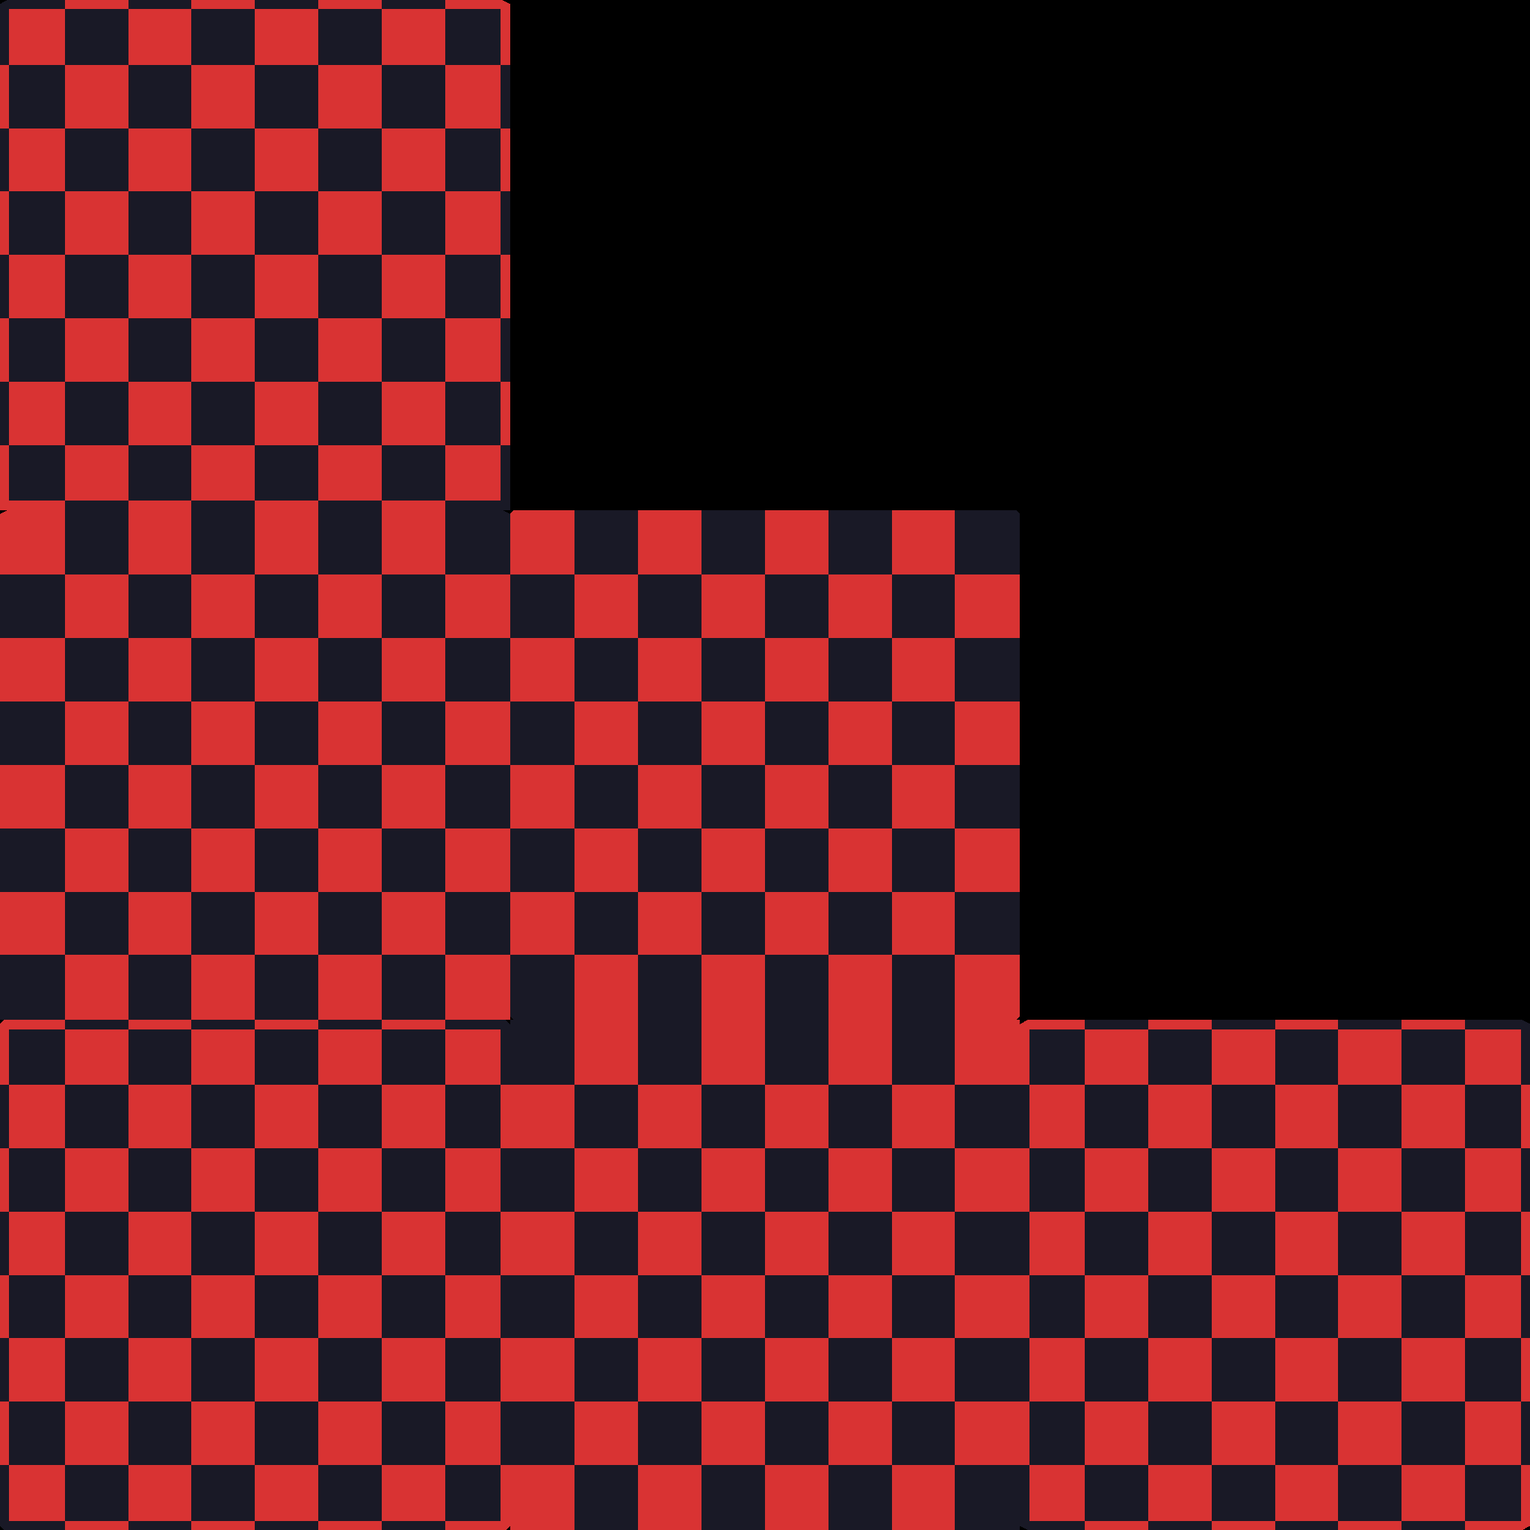
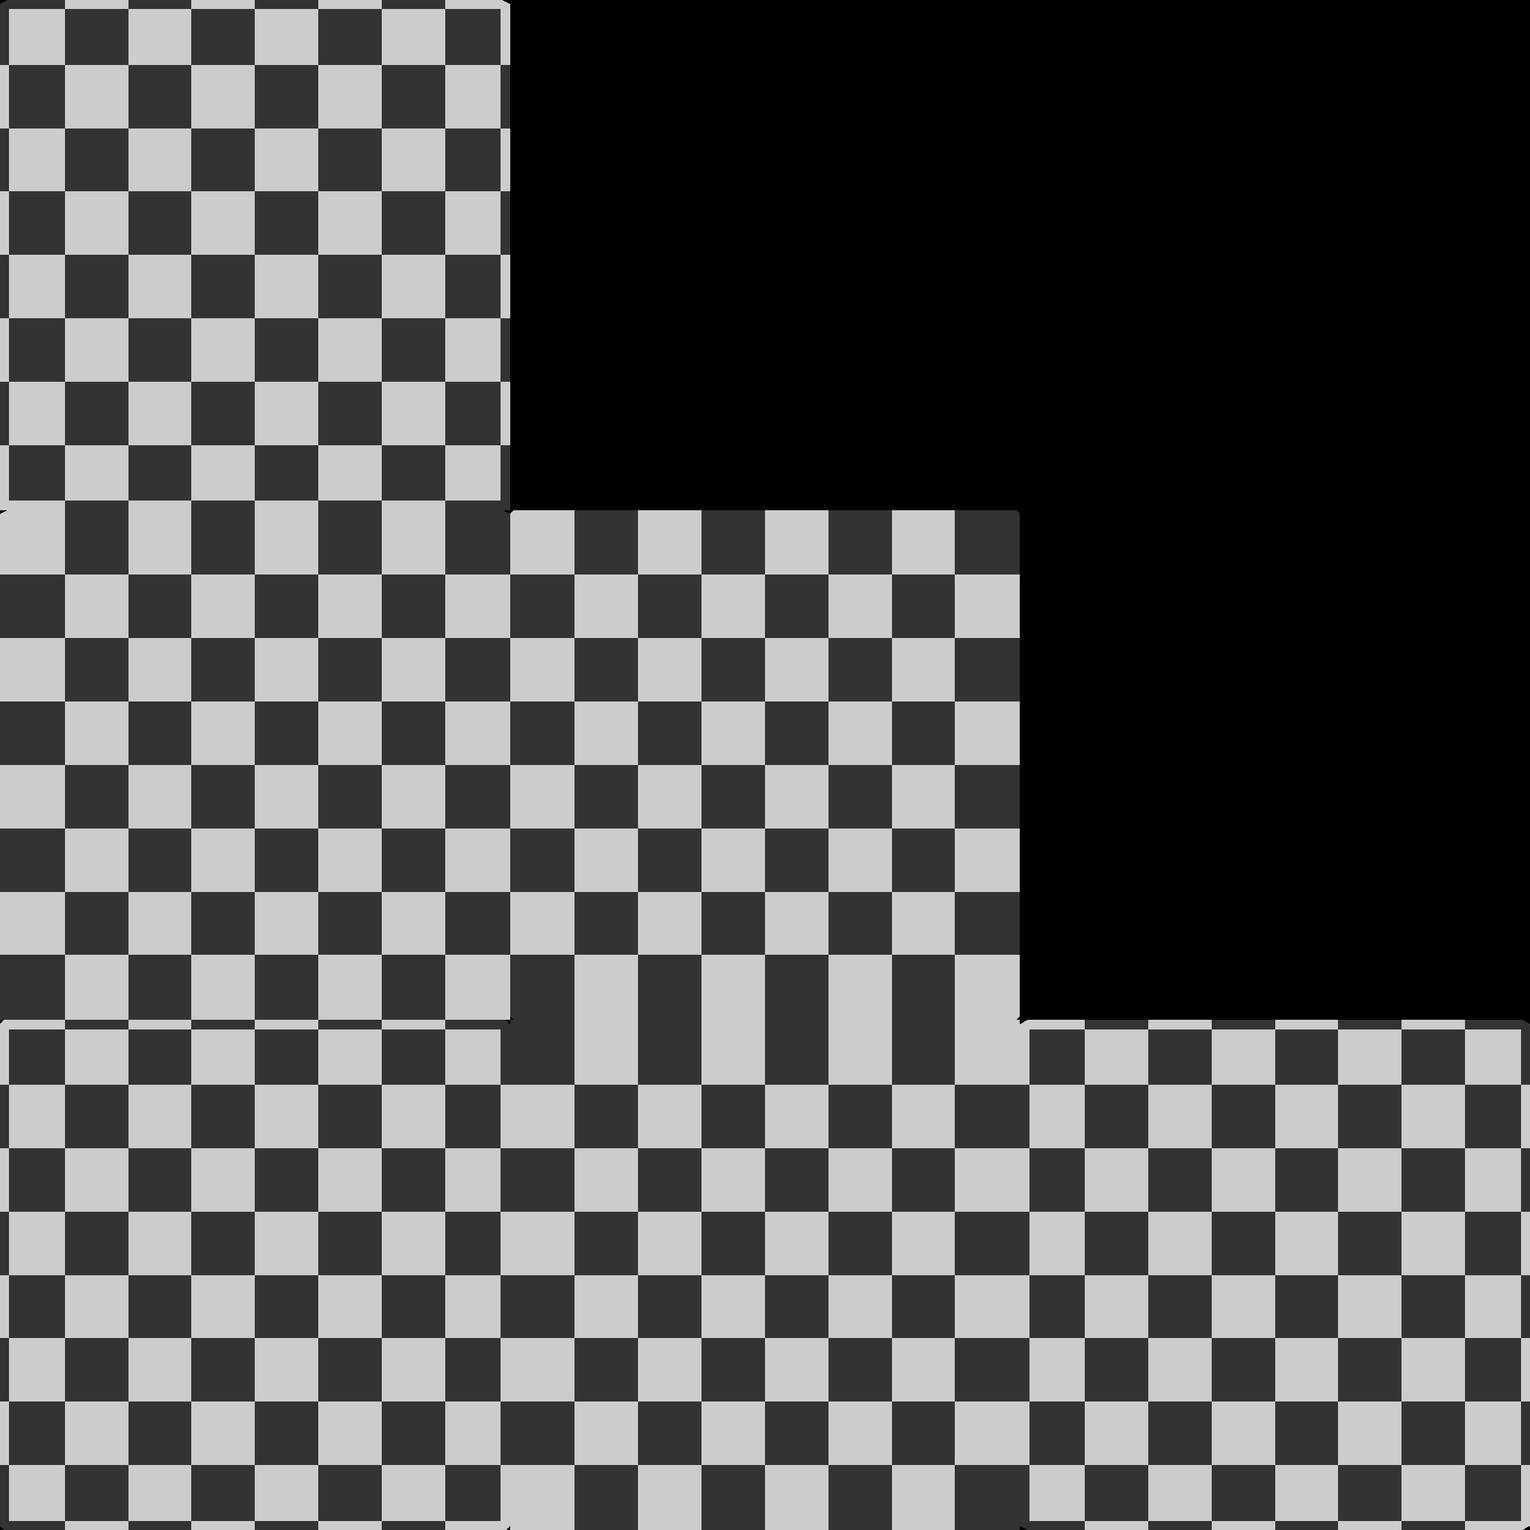
feat: ship noise/voronoi node types, refresh gallery via real tool
Promote noise (TEX_NOISE) and voronoi (TEX_VORONOI) from
generate_gallery.py's demo-only minic into script_gen.py's real
create_procedural_material whitelist -- same proven minic/params, now
actual tool inputs. Covered by 4 new unit tests and 2 parametrized
real-integration tests asserting genuinely-painted output.

generate_gallery.py now routes through the real create_procedural_material
tool instead of hand-written minic; regenerated checker/noise/voronoi and
added a solid swatch. README gallery section rewritten to match and drop
the stale "demo-only" caveat.

diff --git a/scripts/generate_gallery.py b/scripts/generate_gallery.py
@@ -1,113 +1,48 @@
-# scripts/generate_gallery.py
 """Regenerates the procedural-material gallery images under
-docs/images/gallery/ (procedural_noise_base.png, procedural_voronoi_base.png).
+docs/images/gallery/ (procedural_checker_base.png, procedural_solid_base.png,
+procedural_noise_base.png, procedural_voronoi_base.png).
 
 Run manually whenever the gallery needs to change:
     .venv\\Scripts\\python.exe scripts\\generate_gallery.py
 
 Requires AP_BINARY set (env var or .env) to a working ArmorPaint.exe.
 
-Hand-written minic, like tests/fixtures/generate_fixture.py -- deliberately
-NOT routed through script_gen.py/create_procedural_material, which ship only
-"checker" and "solid" node types by design (see docs/PLAN.md Phase 2). This
-script exists purely to produce example imagery; it does not change the
-shipped tool surface.
-
-Renders every variant in its own script_project_new()/build/fill/export
-cycle, all inside one ArmorPaint --script process -- confirmed working
-(three cycles, three node types, one process) via a spike on 2026-09-16.
-Cheaper than one process per image and avoids relaunching the GUI repeatedly.
+Routes through the real, shipped create_procedural_material tool (not
+hand-written minic) -- all four node types below ("checker", "solid",
+"noise", "voronoi") are part of script_gen.py's actual whitelist, so this
+is genuine tool output, not example-only imagery.
 """
 import os
 import shutil
-import subprocess
 import sys
 import tempfile
 
 sys.path.insert(0, os.path.join(os.path.dirname(__file__), "..", "src"))
-from armorpaint_mcp import runner  # noqa: E402
-from armorpaint_mcp.config import load_config  # noqa: E402
+from armorpaint_mcp.server import create_procedural_material  # noqa: E402
 
 GALLERY_DIR = os.path.join(os.path.dirname(__file__), "..", "docs", "images", "gallery")
 
-# Each node's minic lines, wired to OUTPUT_MATERIAL_PBR's Base Color input
-# (out, socket 0). Which output socket carries Color varies per node type --
-# see each node's own *_init() in ArmorPaint's nodes_material/ source
-# (TEX_NOISE and TEX_VORONOI both put Color at output socket 1, not 0).
 _VARIANTS = {
-    "noise": [
-        '\tui_node_t *src = script_material_create_node_at("TEX_NOISE", -400.0, 0.0);',
-        '\tscript_material_set_float(src, 1, 1, 6.0);',  # Scale
-        '\tscript_material_set_float(src, 1, 2, 4.0);',  # Detail
-        '\tscript_material_set_float(src, 1, 3, 0.6);',  # Roughness
-        '\tscript_material_set_float(src, 1, 4, 2.0);',  # Lacunarity
-        '\tscript_material_set_float(src, 1, 5, 0.0);',  # Distortion
-        '\tscript_material_connect(src, 1, out, 0);',    # output 1 = Color
-    ],
-    "voronoi": [
-        '\tui_node_t *src = script_material_create_node_at("TEX_VORONOI", -400.0, 0.0);',
-        '\tscript_material_set_float(src, 1, 1, 8.0);',  # Scale
-        '\tscript_material_set_float(src, 1, 2, 0.0);',  # Detail
-        '\tscript_material_set_float(src, 1, 3, 0.5);',  # Roughness
-        '\tscript_material_set_float(src, 1, 4, 2.0);',  # Lacunarity
-        '\tscript_material_set_float(src, 1, 5, 1.0);',  # Randomness
-        '\tscript_material_connect(src, 1, out, 0);',    # output 1 = Color
-    ],
+    "checker": {"type": "checker", "params": {"scale": 8.0}},
+    "solid": {"type": "solid", "params": {"color": [0.75, 0.35, 0.15]}},
+    "noise": {"type": "noise"},
+    "voronoi": {"type": "voronoi"},
 }
 
 
-def _cycle_lines(variant: str, output_dir: str) -> list[str]:
-    return [
-        "\tscript_project_new();",
-        '\tui_node_t *out = script_material_get_node("OUTPUT_MATERIAL_PBR");',
-        *_VARIANTS[variant],
-        "\tscript_fill_layer();",
-        f'\texport_texture_run("{output_dir.replace(os.sep, "/")}", 0);',
-    ]
-
-
 def main() -> int:
-    cfg = load_config()
-    if not cfg.binary or not os.path.isfile(cfg.binary):
-        print(f"AP_BINARY not set to a valid ArmorPaint.exe (got '{cfg.binary}')",
-              file=sys.stderr)
-        return 1
-
     with tempfile.TemporaryDirectory() as tmp:
-        out_dirs = {name: os.path.join(tmp, name) for name in _VARIANTS}
-        for d in out_dirs.values():
-            os.makedirs(d, exist_ok=True)
-
-        body: list[str] = []
-        for name in _VARIANTS:
-            body += _cycle_lines(name, out_dirs[name])
-        script_text = "void main() {\n" + "\n".join(body) + "\n}\n"
-
-        expected = []
-        for d in out_dirs.values():
-            expected += runner.expected_output_files(cfg.binary, "untitled.arm", "png",
-                                                       "generic", d)
-        before = runner._snapshot(expected)
-
-        fd, script_path = tempfile.mkstemp(suffix=".c")
-        try:
-            with os.fdopen(fd, "w", encoding="utf-8") as fh:
-                fh.write(script_text)
-            proc = subprocess.Popen(
-                [cfg.binary, "--script", script_path],
-                stdout=subprocess.DEVNULL, stderr=subprocess.PIPE, text=True,
-            )
-            result = runner._poll_and_terminate(proc, expected, before, 45.0, "generic", tmp)
-        finally:
-            os.unlink(script_path)
-
-        if not result.ok:
-            print(f"gallery generation failed: {result.error}", file=sys.stderr)
-            return 1
-
         os.makedirs(GALLERY_DIR, exist_ok=True)
-        for name, d in out_dirs.items():
-            src = os.path.join(d, "untitled_base.png")
+        for name, node_spec in _VARIANTS.items():
+            out_dir = os.path.join(tmp, name)
+            os.makedirs(out_dir, exist_ok=True)
+            result = create_procedural_material(
+                node_spec=node_spec, output_dir=out_dir, preset="generic")
+            if not result["ok"]:
+                print(f"gallery generation failed for '{name}': {result['error']}",
+                      file=sys.stderr)
+                return 1
+            src = next(f for f in result["files"] if f.endswith("_base.png"))
             dst = os.path.join(GALLERY_DIR, f"procedural_{name}_base.png")
             shutil.copyfile(src, dst)
             print(f"wrote {dst} ({os.path.getsize(dst)} bytes)")

diff --git a/src/armorpaint_mcp/script_gen.py b/src/armorpaint_mcp/script_gen.py
@@ -1,10 +1,12 @@
 """Generates minic scripts for procedural material authoring.
 
-v1 supports exactly two node types -- "checker" and "solid" -- each a
-single node wired straight to OUTPUT_MATERIAL_PBR's Base Color input
-(socket 0). This is deliberately narrow (YAGNI): a general multi-node
-graph DSL is future scope, not this phase's job -- see docs/PLAN.md's
-Phase 2 section for why the scope stops here.
+v1 supports four node types -- "checker", "solid", "noise", "voronoi" --
+each a single node wired straight to OUTPUT_MATERIAL_PBR's Base Color
+input. This is deliberately narrow (YAGNI): a general multi-node graph
+DSL is future scope, not this phase's job -- see docs/PLAN.md's Phase 2
+section for why the scope stops here. noise/voronoi were proven working
+via scripts/generate_gallery.py before being promoted into this shipped
+whitelist -- same minic, same param defaults.
 
 Every generated script does the same four things in order: create a fresh
 default project, build the one node the spec asks for and connect it to
@@ -74,9 +76,48 @@ def _solid_node_lines(params: dict) -> list[str]:
     ]
 
 
+def _noise_node_lines(params: dict) -> list[str]:
+    scale = _number("scale", params.get("scale", 6.0))
+    detail = _number("detail", params.get("detail", 4.0))
+    roughness = _number("roughness", params.get("roughness", 0.6))
+    lacunarity = _number("lacunarity", params.get("lacunarity", 2.0))
+    distortion = _number("distortion", params.get("distortion", 0.0))
+    return [
+        '\tui_node_t *src = script_material_create_node_at("TEX_NOISE", -400.0, 0.0);',
+        f'\tscript_material_set_float(src, 1, 1, {scale});',
+        f'\tscript_material_set_float(src, 1, 2, {detail});',
+        f'\tscript_material_set_float(src, 1, 3, {roughness});',
+        f'\tscript_material_set_float(src, 1, 4, {lacunarity});',
+        f'\tscript_material_set_float(src, 1, 5, {distortion});',
+        # TEX_NOISE puts Color at output socket 1, not 0 -- see each node's
+        # own *_init() in ArmorPaint's nodes_material/ source.
+        '\tscript_material_connect(src, 1, out, 0);',
+    ]
+
+
+def _voronoi_node_lines(params: dict) -> list[str]:
+    scale = _number("scale", params.get("scale", 8.0))
+    detail = _number("detail", params.get("detail", 0.0))
+    roughness = _number("roughness", params.get("roughness", 0.5))
+    lacunarity = _number("lacunarity", params.get("lacunarity", 2.0))
+    randomness = _number("randomness", params.get("randomness", 1.0))
+    return [
+        '\tui_node_t *src = script_material_create_node_at("TEX_VORONOI", -400.0, 0.0);',
+        f'\tscript_material_set_float(src, 1, 1, {scale});',
+        f'\tscript_material_set_float(src, 1, 2, {detail});',
+        f'\tscript_material_set_float(src, 1, 3, {roughness});',
+        f'\tscript_material_set_float(src, 1, 4, {lacunarity});',
+        f'\tscript_material_set_float(src, 1, 5, {randomness});',
+        # TEX_VORONOI also puts Color at output socket 1, not 0.
+        '\tscript_material_connect(src, 1, out, 0);',
+    ]
+
+
 _NODE_BUILDERS = {
     "checker": _checker_node_lines,
     "solid": _solid_node_lines,
+    "noise": _noise_node_lines,
+    "voronoi": _voronoi_node_lines,
 }
 
 

diff --git a/tests/test_script_gen.py b/tests/test_script_gen.py
@@ -51,6 +51,59 @@ def test_generate_script_solid_uses_default_color_when_omitted():
     assert "script_material_set_color(src, 0, 0, 0.8, 0.8, 0.8, 1.0);" in script
 
 
+def test_generate_script_noise_includes_expected_calls():
+    script = generate_script(
+        {"type": "noise", "params": {"scale": 10.0, "detail": 3.0,
+                                      "roughness": 0.4, "lacunarity": 1.5,
+                                      "distortion": 0.2}},
+        "C:/out")
+
+    assert 'script_material_create_node_at("TEX_NOISE", -400.0, 0.0)' in script
+    assert "script_material_set_float(src, 1, 1, 10.0);" in script
+    assert "script_material_set_float(src, 1, 2, 3.0);" in script
+    assert "script_material_set_float(src, 1, 3, 0.4);" in script
+    assert "script_material_set_float(src, 1, 4, 1.5);" in script
+    assert "script_material_set_float(src, 1, 5, 0.2);" in script
+    # TEX_NOISE's Color output is socket 1, not 0.
+    assert "script_material_connect(src, 1, out, 0);" in script
+
+
+def test_generate_script_noise_uses_defaults_when_params_omitted():
+    script = generate_script({"type": "noise"}, "C:/out")
+
+    assert "script_material_set_float(src, 1, 1, 6.0);" in script
+    assert "script_material_set_float(src, 1, 2, 4.0);" in script
+    assert "script_material_set_float(src, 1, 3, 0.6);" in script
+    assert "script_material_set_float(src, 1, 4, 2.0);" in script
+    assert "script_material_set_float(src, 1, 5, 0.0);" in script
+
+
+def test_generate_script_voronoi_includes_expected_calls():
+    script = generate_script(
+        {"type": "voronoi", "params": {"scale": 12.0, "detail": 1.0,
+                                        "roughness": 0.3, "lacunarity": 1.8,
+                                        "randomness": 0.7}},
+        "C:/out")
+
+    assert 'script_material_create_node_at("TEX_VORONOI", -400.0, 0.0)' in script
+    assert "script_material_set_float(src, 1, 1, 12.0);" in script
+    assert "script_material_set_float(src, 1, 2, 1.0);" in script
+    assert "script_material_set_float(src, 1, 3, 0.3);" in script
+    assert "script_material_set_float(src, 1, 4, 1.8);" in script
+    assert "script_material_set_float(src, 1, 5, 0.7);" in script
+    assert "script_material_connect(src, 1, out, 0);" in script
+
+
+def test_generate_script_voronoi_uses_defaults_when_params_omitted():
+    script = generate_script({"type": "voronoi"}, "C:/out")
+
+    assert "script_material_set_float(src, 1, 1, 8.0);" in script
+    assert "script_material_set_float(src, 1, 2, 0.0);" in script
+    assert "script_material_set_float(src, 1, 3, 0.5);" in script
+    assert "script_material_set_float(src, 1, 4, 2.0);" in script
+    assert "script_material_set_float(src, 1, 5, 1.0);" in script
+
+
 def test_generate_script_rejects_unknown_node_type():
     with pytest.raises(NodeSpecError, match="unsupported node_spec type 'glow'"):
         generate_script({"type": "glow"}, "C:/out")

diff --git a/src/armorpaint_mcp/server.py b/src/armorpaint_mcp/server.py
@@ -69,10 +69,16 @@ mcp.tool()(reexport_project)
 
 def create_procedural_material(node_spec: dict, output_dir: str,
                                preset: str = "generic") -> dict:
-    """Build a small procedural material -- {"type": "checker", "params":
-    {"scale": float, "color1": [r,g,b], "color2": [r,g,b]}} or {"type":
-    "solid", "params": {"color": [r,g,b]}}, all params optional -- on a
-    fresh default project and export it at `preset`. Everything happens in
+    """Build a small procedural material on a fresh default project and
+    export it at `preset`. `node_spec` is one node wired straight to the
+    material output's Base Color, all params optional:
+    {"type": "checker", "params": {"scale": float, "color1": [r,g,b],
+    "color2": [r,g,b]}}, {"type": "solid", "params": {"color": [r,g,b]}},
+    {"type": "noise", "params": {"scale": float, "detail": float,
+    "roughness": float, "lacunarity": float, "distortion": float}}, or
+    {"type": "voronoi", "params": {"scale": float, "detail": float,
+    "roughness": float, "lacunarity": float, "randomness": float}}.
+    Everything happens in
     one ArmorPaint process (build the graph, render it into the paint
     layer, export): saving to .arm and exporting separately does not
     preserve the rendered pixels on this build -- see docs/PLAN.md's

diff --git a/tests/test_create_procedural_material_integration.py b/tests/test_create_procedural_material_integration.py
@@ -38,3 +38,29 @@ def test_checker_material_produces_a_genuinely_painted_texture(tmp_path):
     assert len(sampled_colors) > 1, (
         f"expected a genuinely painted checker pattern, got a single "
         f"uniform color across all sample points: {sampled_colors}")
+
+
+@pytest.mark.integration
+@pytest.mark.parametrize("node_type", ["noise", "voronoi"])
+def test_procedural_texture_nodes_produce_genuinely_painted_output(tmp_path, node_type):
+    output_dir = tmp_path / "out"
+
+    result = create_procedural_material(
+        node_spec={"type": node_type},
+        output_dir=str(output_dir),
+        preset="generic",
+    )
+
+    assert result["error"] is None, result["error"]
+    assert result["ok"] is True
+
+    base_color_file = next(f for f in result["files"] if f.endswith("_base.png"))
+    image = Image.open(base_color_file).convert("RGB")
+    sampled_colors = {
+        image.getpixel((x, y))
+        for x in (0, image.width // 4, image.width // 2, image.width - 1)
+        for y in (0, image.height // 4, image.height // 2, image.height - 1)
+    }
+    assert len(sampled_colors) > 1, (
+        f"expected a genuinely painted {node_type} pattern, got a single "
+        f"uniform color across all sample points: {sampled_colors}")

diff --git a/README.md b/README.md
@@ -39,23 +39,26 @@ exported, not visual richness. Same project, two export presets:
 |:--:|:--:|
 | ![generic preset base color export](docs/images/gallery/generic_base.png) | ![unreal preset packed export](docs/images/gallery/unreal_packed.png) |
 
-Real procedural output from `create_procedural_material` (Phase 2) — a
-checker-pattern node graph built, rendered, and exported in a single
-ArmorPaint process, on the default cube-bevel primitive:
+Real procedural output from `create_procedural_material` — one node graph
+built, rendered, and exported in a single ArmorPaint process, on the default
+cube-bevel primitive. All four node types below (`"checker"`, `"solid"`,
+`"noise"`, `"voronoi"`) are shipped, callable tool inputs, not example-only
+imagery — [scripts/generate_gallery.py](scripts/generate_gallery.py)
+regenerates all four through the real tool:
 
-![procedural checker material, base color export](docs/images/gallery/procedural_checker_base.png)
-
-ArmorPaint's minic scripting surface reaches further than the two node types
-`create_procedural_material` ships (a deliberate v1 scope decision, not a
-platform limit — see [docs/PLAN.md](docs/PLAN.md) Phase 2). `TEX_NOISE` and
-`TEX_VORONOI` both work the same way through the same `script_material_*`
-calls; [scripts/generate_gallery.py](scripts/generate_gallery.py) renders
-them (hand-written minic, outside the shipped tool, for example imagery
-only) to show what the underlying engine is actually capable of:
+| Checker | Solid |
+|:--:|:--:|
+| ![procedural checker material, base color export](docs/images/gallery/procedural_checker_base.png) | ![procedural solid material, base color export](docs/images/gallery/procedural_solid_base.png) |
 
 | Noise | Voronoi |
 |:--:|:--:|
 | ![procedural noise material, base color export](docs/images/gallery/procedural_noise_base.png) | ![procedural voronoi material, base color export](docs/images/gallery/procedural_voronoi_base.png) |
+
+ArmorPaint's material-node scripting surface reaches much further than
+these four — 62 node types ship in the engine (`paint/sources/nodes_material/`),
+and today's `create_procedural_material` can only wire a single node
+straight to the output, not compose a real graph. That's the current
+ceiling, tracked as open scope, not a platform limit.
 
 ## How it works
 

diff --git a/STATUS.md b/STATUS.md
@@ -48,7 +48,7 @@
 
 | Item / File | State | Notes |
 |---|---|---|
-| `src/armorpaint_mcp/script_gen.py` (`generate_script`) | ✅ | builds a minic script from a whitelisted node-graph spec — exactly two node types shipped, `"checker"` (`TEX_CHECKER`) and `"solid"` (`RGB`); exercised by both unit tests and the real integration run |
+| `src/armorpaint_mcp/script_gen.py` (`generate_script`) | ✅ | builds a minic script from a whitelisted node-graph spec — four node types shipped: `"checker"` (`TEX_CHECKER`), `"solid"` (`RGB`), `"noise"` (`TEX_NOISE`), `"voronoi"` (`TEX_VORONOI`, both added 2026-09-16, promoted from `scripts/generate_gallery.py`'s demo-only minic once proven); exercised by unit tests (`tests/test_script_gen.py`, 92 passed total) and real integration runs (`tests/test_create_procedural_material_integration.py`, 8 passed with `AP_BINARY` set, incl. parametrized noise/voronoi pixel-content checks) |
 | `src/armorpaint_mcp/runner.py` (`run_procedural_material`) | ✅ | single-process launch: `--script <file>` (no `--background`), reuses Phase 1's poll-and-terminate helper; real run produced a non-flat exported PNG |
 | `src/armorpaint_mcp/server.py` (`create_procedural_material`) | ✅ | end-to-end real call verified via `test_checker_material_produces_a_genuinely_painted_texture`: exported base-color PNG samples multiple distinct colors (genuinely painted, not uniform) |
 | `src/armorpaint_mcp/server.py` (`list_available_presets`) | ✅ | registered as an MCP tool this phase (written/tested in `runner.py` since Phase 1, previously unregistered); covered by unit tests |
